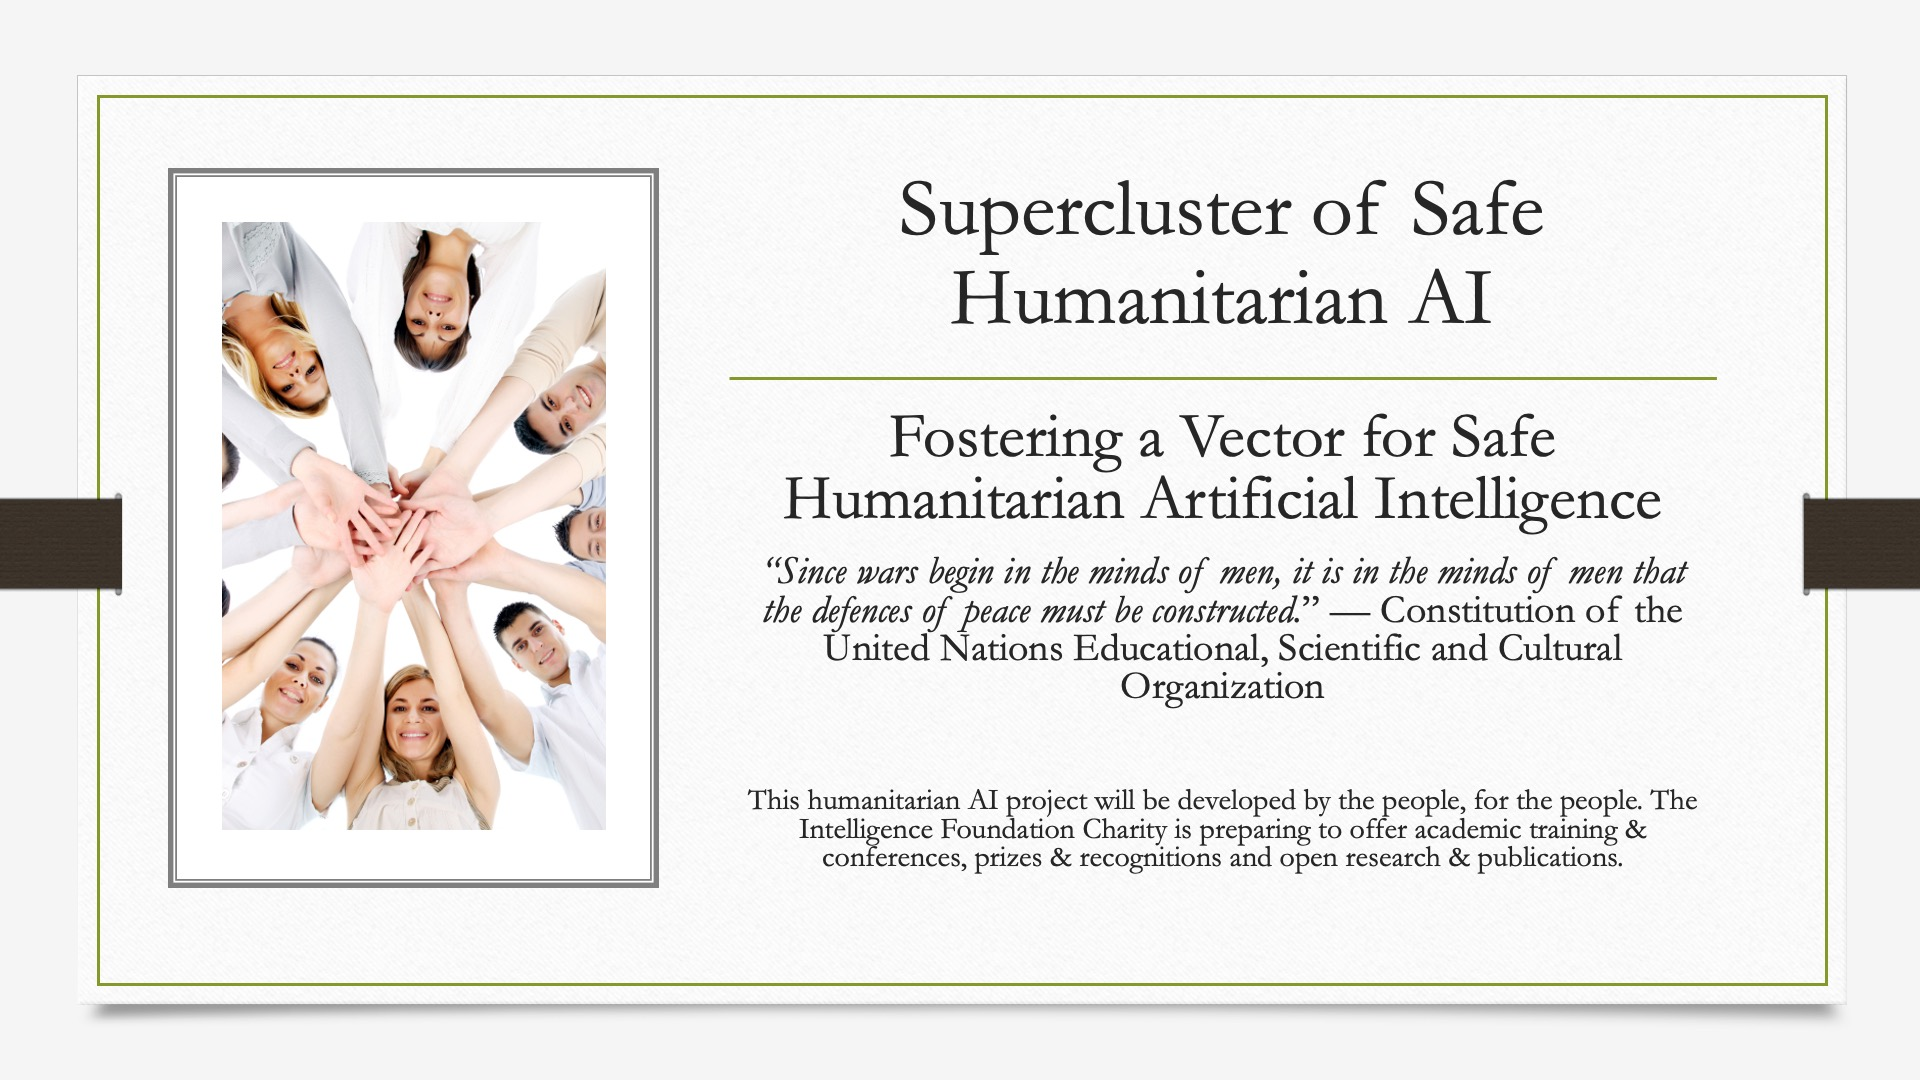
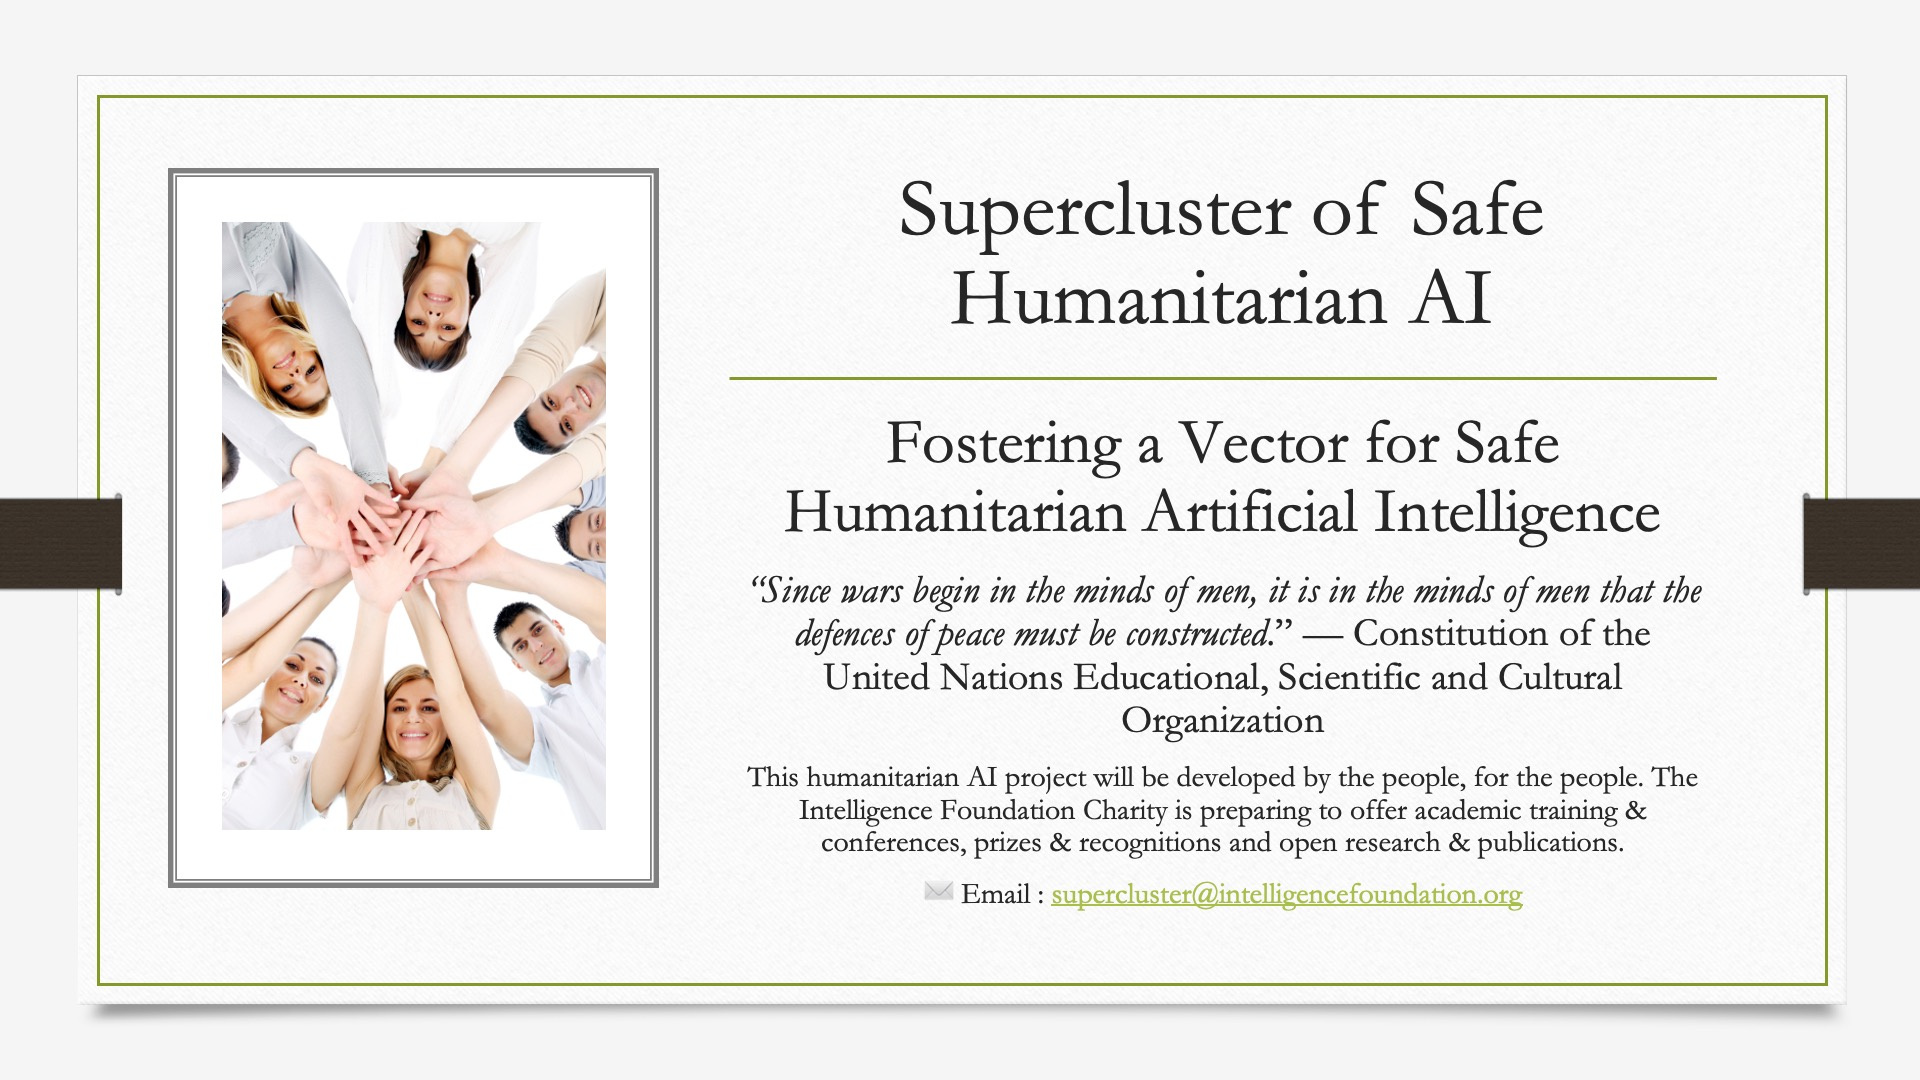
Site updated: 2020-02-22 14:48:31

Changed region(s): [[0.375, 0.3667, 0.9062, 0.8556]]

diff --git a/2020/02/09/index/index.html b/2020/02/09/index/index.html
@@ -32,7 +32,7 @@
 <meta property="og:image" content="https://intelligencefoundation.github.io/2020/02/09/images/heritagev0.jpg">
 <meta property="og:image" content="https://intelligencefoundation.github.io/2020/02/09/images/fondationintelligencelogo120.jpg">
 <meta property="article:published_time" content="2020-02-10T01:09:56.000Z">
-<meta property="article:modified_time" content="2020-02-22T18:49:24.000Z">
+<meta property="article:modified_time" content="2020-02-22T19:48:15.000Z">
 <meta property="article:author" content="Intelligence Foundation Charity">
 <meta name="twitter:card" content="summary">
 <meta name="twitter:image" content="https://intelligencefoundation.github.io/2020/02/09/images/fondationintelligencev5.jpg">
@@ -137,7 +137,7 @@
         <span class="column is-narrow">
             
             
-            8 minutes read (About 1254 words)
+            8 minutes read (About 1260 words)
         </span>
         
     </div>
@@ -178,6 +178,7 @@
 <blockquote>
 <p><em>«Since wars begin in the minds of men, it is in the minds of men that the defences of peace must be constructed.»</em> - Constitution of the United Nations Educational, Scientific and Cultural Organization</p>
 </blockquote>
+<p>✉ <strong>Supercluster</strong> : <a href="mailto:supercluster@intelligencefoundation.org">supercluster@intelligencefoundation.org</a></p>
 <hr>
 <hr>
 <h3 id="Officers"><a href="#Officers" class="headerlink" title="Officers"></a><strong>Officers</strong></h3><p>Erudition, Culture and Growth : We are now bringing a new volunteer culture to life.</p>

diff --git a/index.html b/index.html
@@ -123,7 +123,7 @@
         <span class="column is-narrow">
             
             
-            8 minutes read (About 1254 words)
+            8 minutes read (About 1260 words)
         </span>
         
     </div>
@@ -164,6 +164,7 @@
 <blockquote>
 <p><em>«Since wars begin in the minds of men, it is in the minds of men that the defences of peace must be constructed.»</em> - Constitution of the United Nations Educational, Scientific and Cultural Organization</p>
 </blockquote>
+<p>✉ <strong>Supercluster</strong> : <a href="mailto:supercluster@intelligencefoundation.org">supercluster@intelligencefoundation.org</a></p>
 <hr>
 <hr>
 <h3 id="Officers"><a href="#Officers" class="headerlink" title="Officers"></a><strong>Officers</strong></h3><p>Erudition, Culture and Growth : We are now bringing a new volunteer culture to life.</p>
